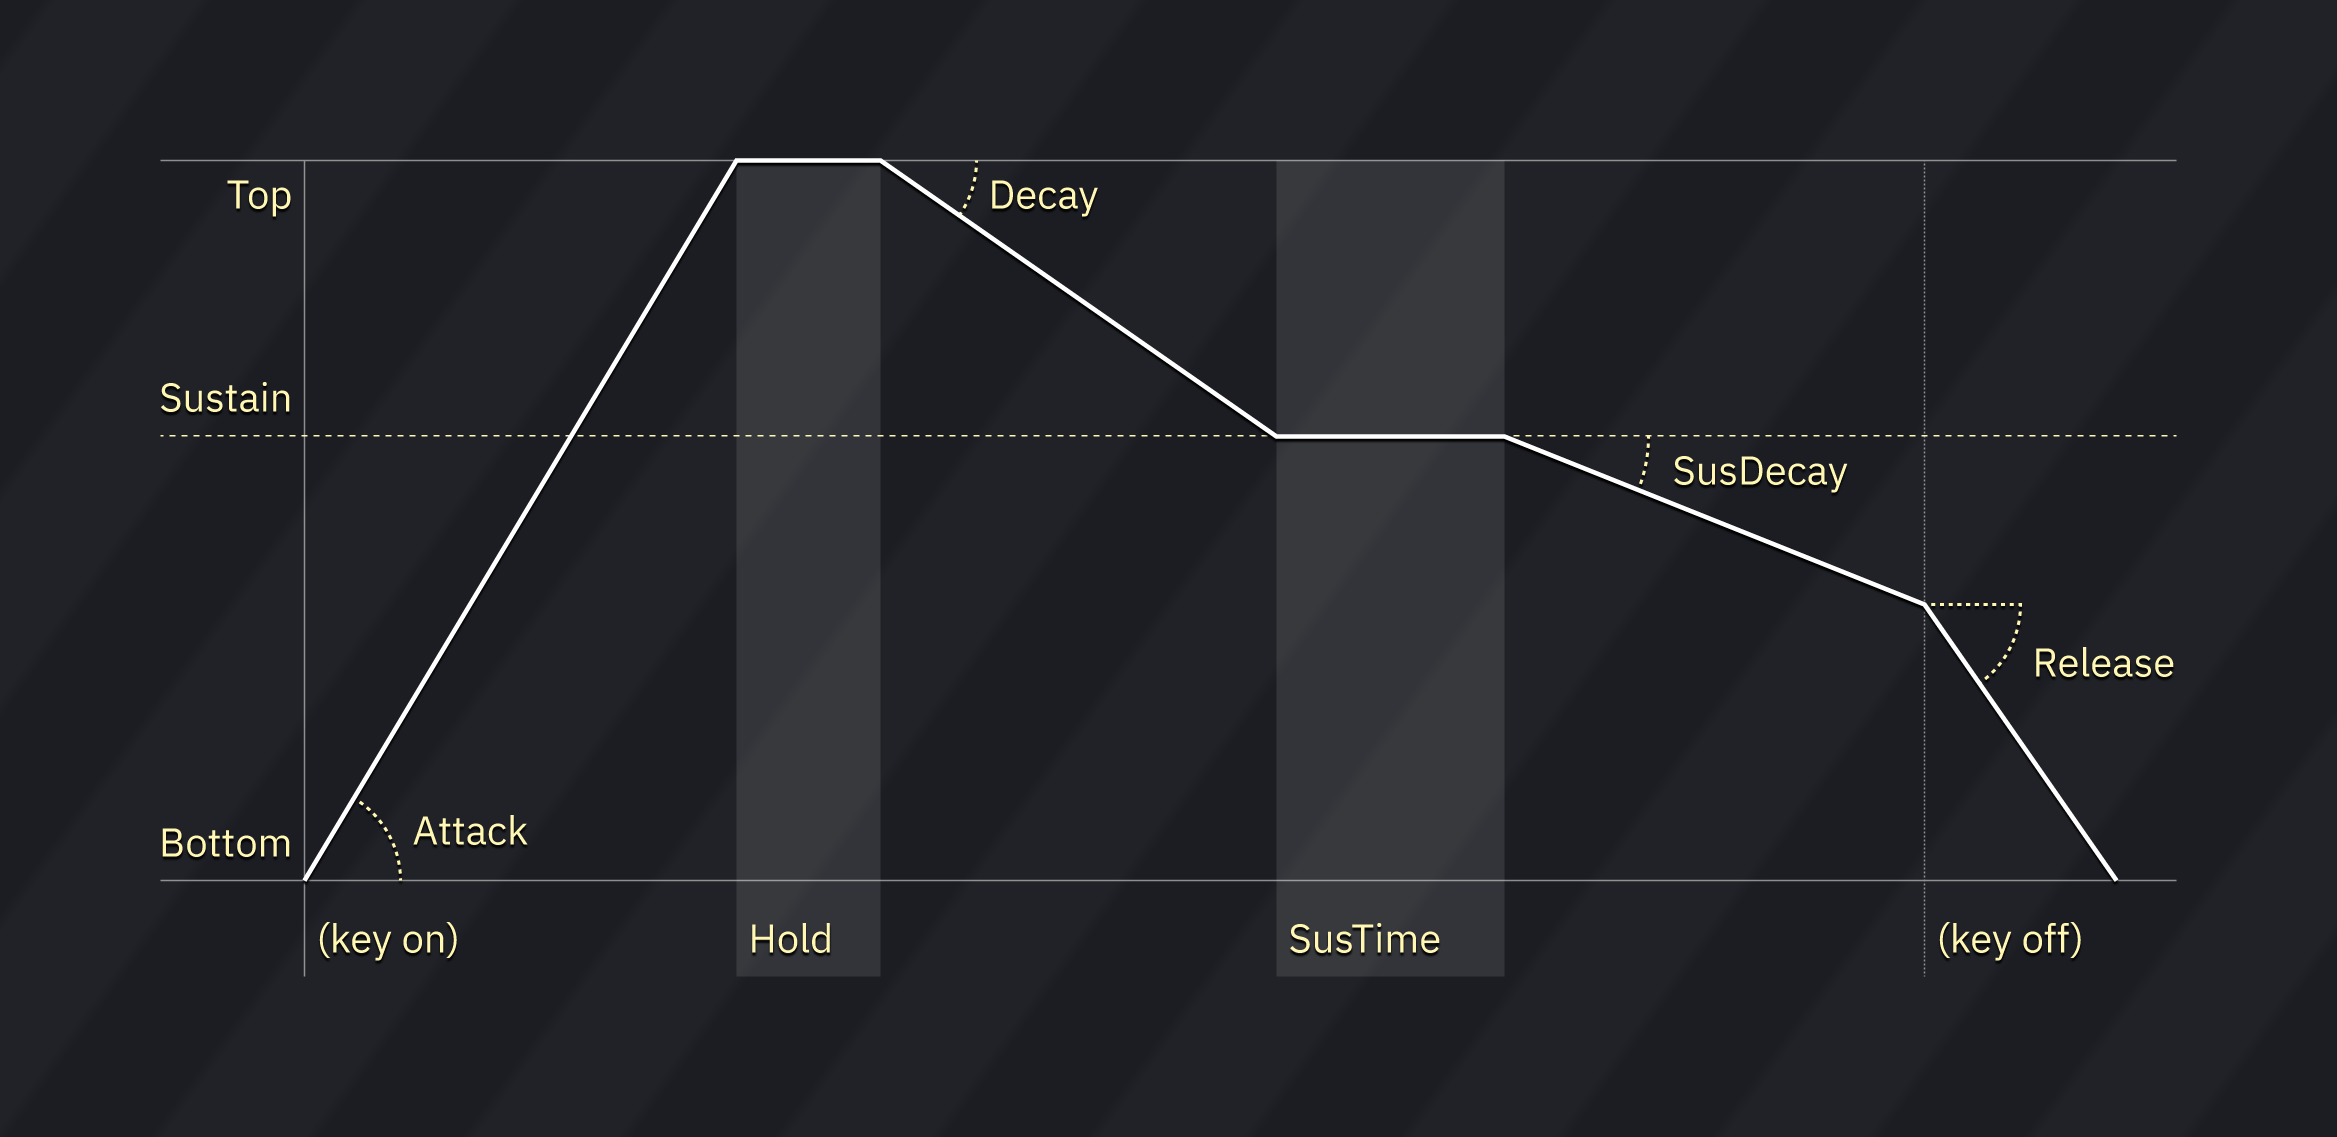
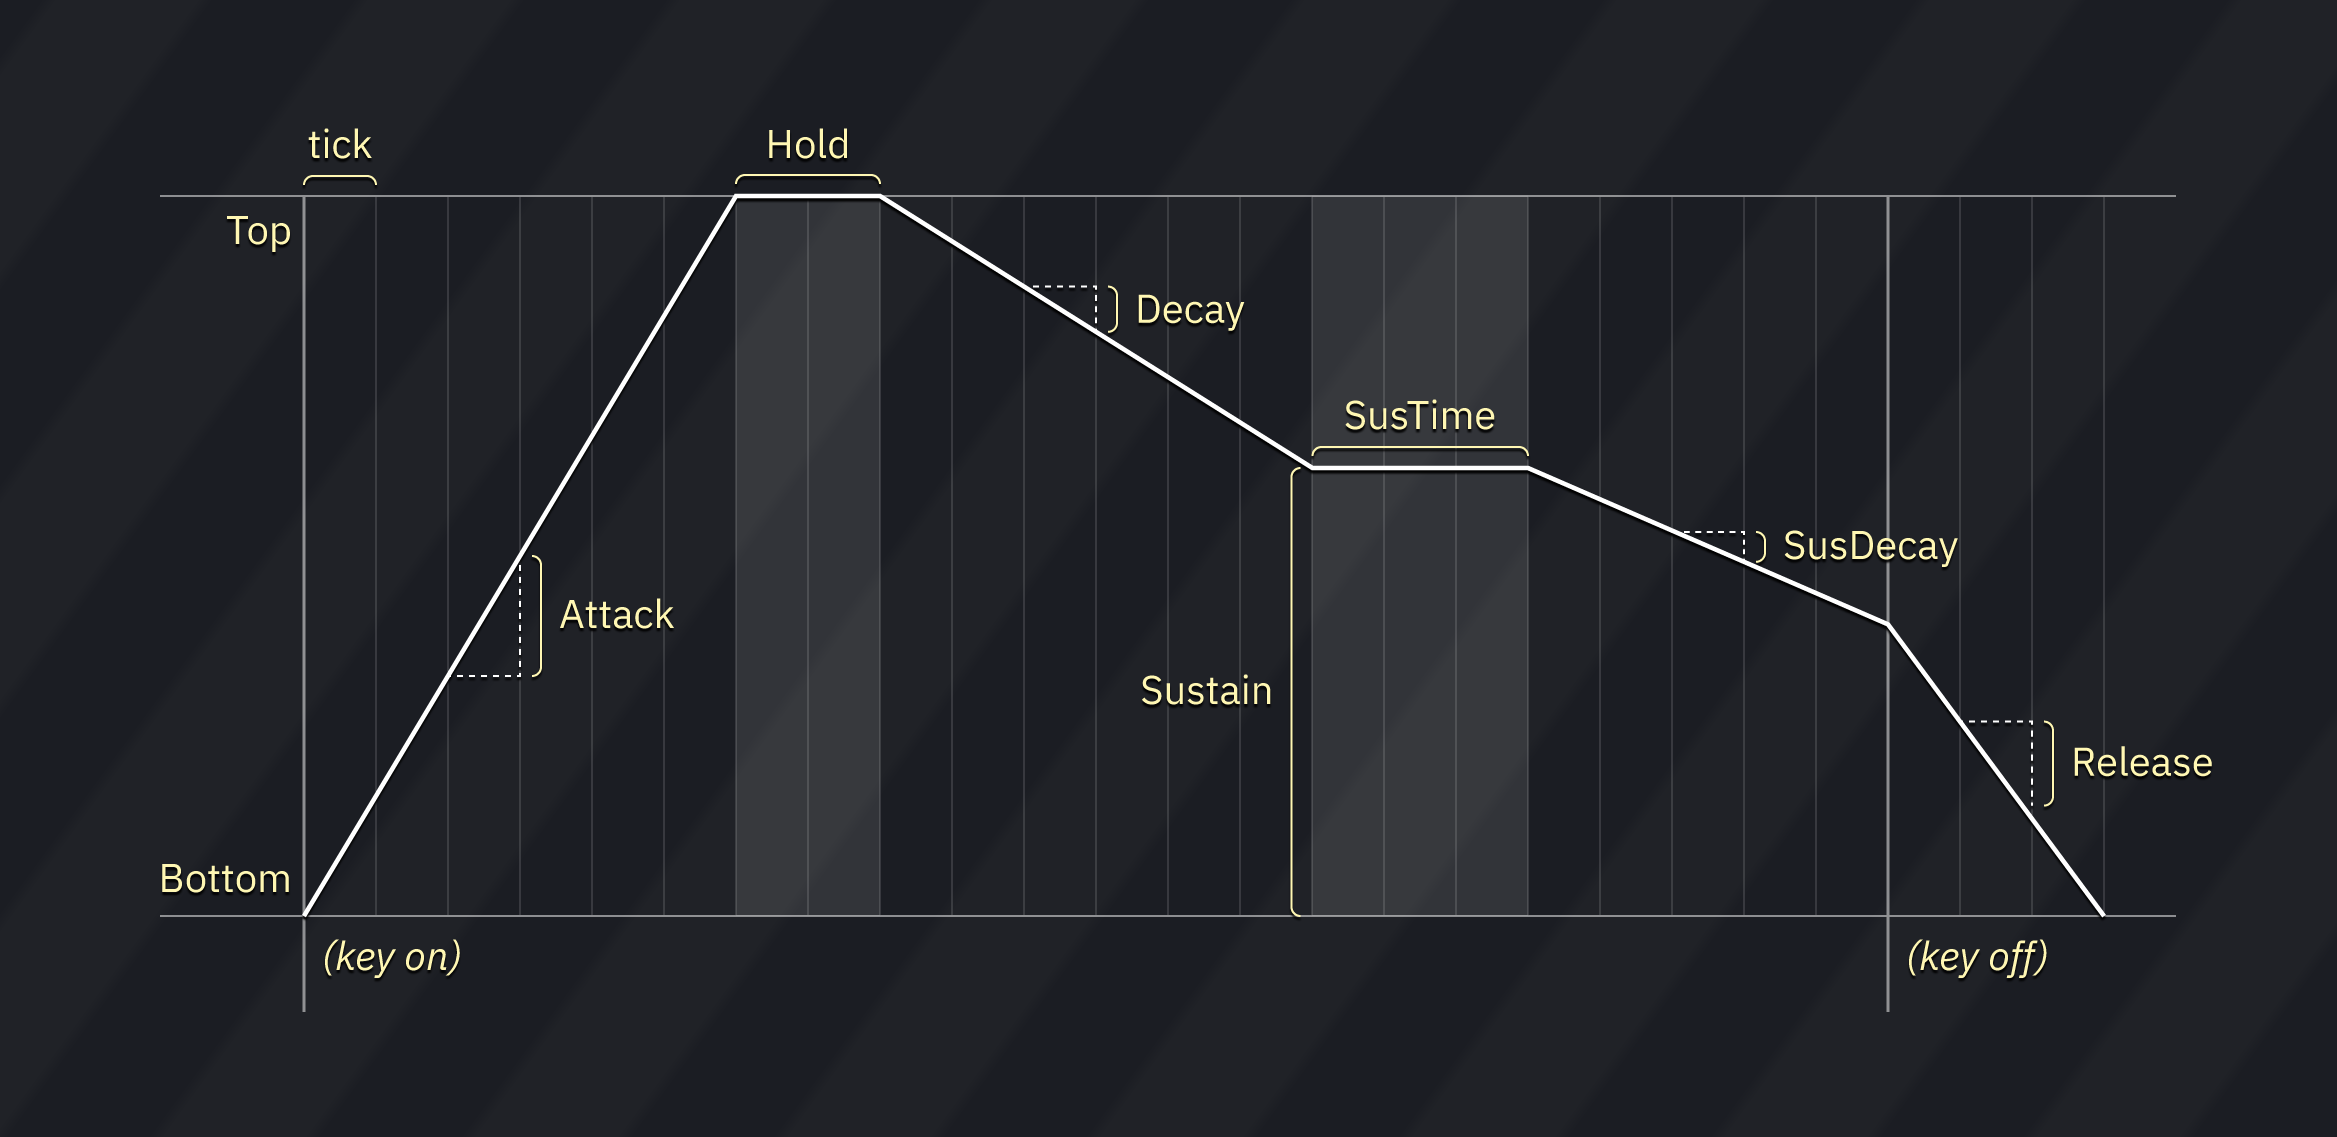
Minor adjustments and new ADSR chart.

diff --git a/doc/2-interface/asset-list.md b/doc/2-interface/asset-list.md
@@ -3,21 +3,20 @@
 ![instruments window](instruments.png)
 
 Buttons from left to right:
-- **Add:** Creates a new, default instrument.
-- **Duplicate:** Duplicates the currently selected instrument.
-- **Open:** Brings up a file dialog to load a file as a new instrument at the end of the list.
-- **Save:** Brings up a file dialog to save the currently selected instrument.
-- **Toggle folders/standard view:** Enables (and disables) folder view, explained below.
-- **Move up:** Moves the currently selected instrument up in the list. Pattern data will automatically be adjusted to match.
-- **Move down:** Same, but downward.
-- **Delete:** Deletes the currently selected instrument. Pattern data will be adjusted to use the next available instrument in the list.
+- ![](asset-add.png) **Add:** Creates a new, default instrument.
+- ![](asset-duplicate.png) **Duplicate:** Duplicates the currently selected instrument.
+- ![](asset-open.png) **Open:** Brings up a file dialog to load a file as a new instrument at the end of the list.
+- ![](asset-save.png) **Save:** Brings up a file dialog to save the currently selected instrument.
+- ![](asset-folderview.png) **Toggle folders/standard view:** Enables (and disables) folder view, explained below.
+- ![](asset-move.png) **Move up** and **Move down:** Moves the currently selected instrument in the list. Pattern data will automatically be adjusted to match.
+- ![](asset-delete.png) **Delete:** Deletes the currently selected instrument. Pattern data will be adjusted to use the next available instrument in the list.
 
 ## folder view
 
 ![instruments window in folder view](instruments-folder.png)
 
-In folder view, the "Move up" and "Move down buttons disappear and a new one appears:
-- **New Folder:** Creates a new folder.
+In folder view, the "Move up" and "Move down" buttons disappear and a new one appears:
+- ![](asset-newfolder.png) **New Folder:** Creates a new folder.
 
 Instruments may be dragged from folder to folder and even rearranged within folders without changing their associated numbers.
 
@@ -34,5 +33,5 @@ Everything from the instrument list applies here also, with one major difference
 ![samples window](samples.png)
 
 Everything from the wavetables list applies here also, with the addition of two buttons:
-- **Preview:** Plays the selected sample at its default note.
-- **Stop preview:** Stops the sample playback.
+- ![](asset-preview.png) **Preview:** Plays the selected sample at its default note.
+- ![](asset-previewstop.png) **Stop preview:** Stops the sample playback.

diff --git a/doc/4-instrument/README.md b/doc/4-instrument/README.md
@@ -77,14 +77,15 @@ Finally, the sequence of values can be directly edited in the text box at the bo
 
 ![ADSR macro editor](macro-ADSR.png)
 
-- **Bottom** and **Top** determine the range of values generated by the macro. (Bottom can be larger than Top to invert the envelope!) All generated values will fall between these two points.
-- **Attack** is how quickly the value goes from Bottom to Top. A 0 means nothing will change; a 255 instantly jumps to the Top value.
-- **Hold** sets how many ticks the note will wait at Top before decay.
-- **Decay** is how quickly the value moves to the Sustain level.
-- **Sustain** is the where the value will stay while the note is held until SusTime has passed.
-- **SusTime** is how many ticks until SusDecay.
-- **SusDecay** is the rate at which the value moves toward Bottom while the note is held.
-- **Release** is the rate at which the value moves toward Bottom after the note is released.
+- **Bottom** and **Top** determine the range of outputs generated by the macro. (Bottom can be larger than Top to invert the envelope!) All outputs will be between these two values.
+- Attack, Decay, Sustain, SusDecay, and Release accept inputs between 0 to 255. These are scaled to the distance between Bottom and Top.
+- **Attack** is how much the value moves toward Top with each tick.
+- **Hold** sets how many ticks to stay at Top before Decay.
+- **Decay** is how much the value moves to the Sustain level.
+- **Sustain** is how far from Bottom the value stays while the note is held.
+- **SusTime** is how many ticks to stay at Sustain until SusDecay.
+- **SusDecay** is how much the value moves toward Bottom with each tick while the note is held.
+- **Release** is how much the value moves toward Bottom with each tick after the note is released.
 
 ![macro ADSR chart](macro-ADSRchart.png)
 
